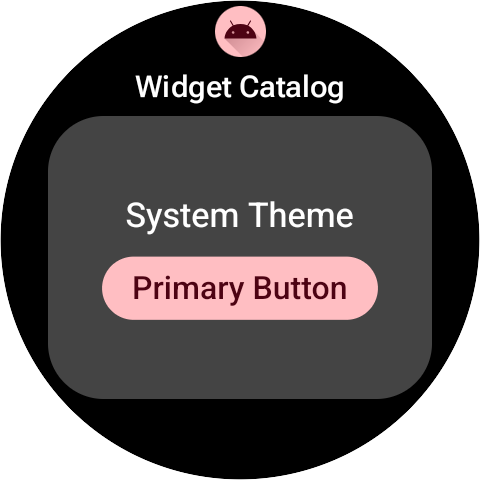
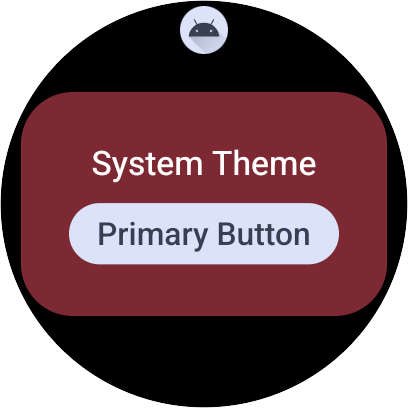
feat: show dynamic document background in sample
Verify that dynamic theme colors for document backgrounds now work
directly without manual binding. Update WidgetCatalog to demonstrate
this for SystemThemeSample. Update GETTING-STARTED.md to mark the
issue as fixed and reformat other fixed issues to use italics instead
of alerts.

Tested on device localhost:41027.

diff --git a/WearWidgetKotlin/app/src/main/java/com/google/example/wear_widget/WidgetCatalog.kt b/WearWidgetKotlin/app/src/main/java/com/google/example/wear_widget/WidgetCatalog.kt
@@ -17,7 +17,6 @@ package com.google.example.wear_widget
 
 import android.content.Context
 import android.util.Log
-import androidx.compose.remote.creation.compose.state.RemoteColor
 import androidx.compose.remote.creation.compose.state.rc
 import androidx.compose.ui.graphics.Color
 import androidx.glance.wear.GlanceWearWidget
@@ -46,14 +45,15 @@ class WidgetCatalog : GlanceWearWidget() {
 
         val localColorScheme = ColorScheme()
         val remoteColorScheme = RemoteColorScheme(localColorScheme)
-        val dynamicBg =
-            RemoteColor.createNamedRemoteColor(
-                "WearM3.primaryContainer",
-                localColorScheme.primaryContainer,
-            )
-        // Note: Not using dynamicBg because of the `RemoteModifier.background(RemoteColor)` Ignores
-        // Clipping known issue
-        return WearWidgetDocument(background = WearWidgetBrush.color(Color.DarkGray.rc)) {
+
+        val backgroundBrush =
+            if (state.layoutName == "SystemThemeSample") {
+                WearWidgetBrush.color(remoteColorScheme.primaryContainer)
+            } else {
+                WearWidgetBrush.color(Color.DarkGray.rc)
+            }
+
+        return WearWidgetDocument(background = backgroundBrush) {
             RemoteMaterialTheme(colorScheme = remoteColorScheme) {
                 when (state.layoutName) {
                     "TaskSample" -> TaskSample()

diff --git a/WearWidgetKotlin/docs/GETTING-STARTED.md b/WearWidgetKotlin/docs/GETTING-STARTED.md
@@ -831,7 +831,7 @@ significantly.
 | **State & Interactivity** | Server-side driven. Interactions (`LoadAction`) trigger a full service callback to refresh the UI.                                                                                                                        | Client-side driven. Declarative state (`rememberRemoteIntValue`) and actions (`ValueChange`) allow instant UI updates without app round-trips.                                                                |
 | **Dynamic Data**          | **Streaming Support.** Can bind directly to platform data (e.g., Heart Rate) via `DynamicBuilders` for real-time updates.                                                                                                 | **State Driven.** Updates are driven by state changes or app pushes. No direct platform sensor binding yet.                                                                                                   |
 | **Update Scheduling**     | **Timeline Support.** Can pre-schedule future layouts (e.g., calendar events) to update automatically without waking the app.                                                                                             | **Real-time.** Updates are immediate and must be initiated by app code. No native mechanism to pre-cache future layouts.                                                                                      |
-| **Curved Layouts** | **Native Support.** dedicated `Arc` containers and components (`ArcText`) for circular screens. | **Container Not Required.** Widgets use standard linear layouts (`RemoteRow`) and do not aim to hug the screen curvature. However, component-level arcs (like progress indicators) are supported. |
+| **Curved Layouts**        | **Native Support.** dedicated `Arc` containers and components (`ArcText`) for circular screens.                                                                                                                           | **Container Not Required.** Widgets use standard linear layouts (`RemoteRow`) and do not aim to hug the screen curvature. However, component-level arcs (like progress indicators) are supported.             |
 | **Transitions**           | **Granular Control.** Explicit APIs for `EnterTransition` and `ExitTransition`.                                                                                                                                           | **Animation Specs.** Uses generic `animationSpec` on modifiers. Granular transition control is less relevant in this model.                                                                                   |
 | **Advanced Animations**   | **Lottie Supported.** Natively supports Lottie via `AndroidLottieResourceByResId`.                                                                                                                                        | **Support Planned.**                                                                                                                                                                                          |
 | **Tween Animations**      | **Developer or Renderer Controlled.** Developers can provide an `AnimationSpec` but can also arrange for interpolation to be handled automatically by the renderer when dynamic values change.                            | **Developer Controlled.** Explicit `animationSpec` allows precise control over duration, delay, and easing curves (e.g. `tween`, `spring`).                                                                   |
@@ -928,11 +928,10 @@ API surface, but the workaround remains necessary for tooling APIs like
 
 ### [FIXED] `RemoteModifier.clip()` Requires Explicit Size for Relative Shapes {#remotemodifierclip-requires-explicit-size-for-relative-shapes}
 
-> [!NOTE] Fixed in `1.0.0-alpha08`. `RemoteModifier.clip` now expects
-> `RemoteShape` (e.g., `RemoteCircleShape`) and no longer accepts explicit
-> dimensions.
-
 b/477860914
+
+_Fixed in `1.0.0-alpha08`. `RemoteModifier.clip` now expects `RemoteShape`
+(e.g., `RemoteCircleShape`) and no longer accepts explicit dimensions._
 
 **Symptom:** Shapes that rely on the component's layout size, such as
 `RoundedCornerShape(percent = 50)` or `CircleShape`, may compile but fail to
@@ -953,10 +952,10 @@ RemoteModifier
 
 ### [FIXED] `RemoteModifier.padding` Lacks `RemoteDp` Support {#remotemodifierpadding-lacks-remotedp-support}
 
-> [!NOTE] Fixed in `1.0.0-alpha07`. `RemoteModifier.padding` now supports
-> `RemoteDp` (e.g., `10.rdp`).
-
 b/470964182
+
+_Fixed in `1.0.0-alpha07`. `RemoteModifier.padding` now supports `RemoteDp`
+(e.g., `10.rdp`)._
 
 The `RemoteModifier.padding` extension functions previously did not accept
 `RemoteDp` values. They only supported `RemoteFloat` or standard Compose `Dp`.
@@ -968,10 +967,10 @@ RemoteModifier.padding(10.rdp)
 
 ### [FIXED] `RemoteArrangement.Center` Can Only Be Used in Vertical Contexts {#remotearrangementcenter-can-only-be-used-in-vertical-contexts}
 
-> [!NOTE] Fixed in `1.0.0-alpha07`. `RemoteArrangement.Center` now implements
-> `HorizontalOrVertical` and can be used in both `RemoteRow` and `RemoteColumn`.
-
 b/471153933
+
+_Fixed in `1.0.0-alpha07`. `RemoteArrangement.Center` now implements
+`HorizontalOrVertical` and can be used in both `RemoteRow` and `RemoteColumn`._
 
 **Symptom:** A type mismatch error occurs when using `RemoteArrangement.Center`
 in a `RemoteRow`.
@@ -996,10 +995,10 @@ interface.
 
 ### [FIXED] `RemoteBox` Vertical Axis Requires `Arrangement` {#remotebox-differs-from-compose-box}
 
-> [!NOTE] Fixed in `1.0.0-alpha07`. `RemoteBox` now uses
-> `contentAlignment: RemoteAlignment` just like standard Compose `Box`.
-
 b/471212869
+
+_Fixed in `1.0.0-alpha07`. `RemoteBox` now uses
+`contentAlignment: RemoteAlignment` just like standard Compose `Box`._
 
 **Symptom:** You cannot use `RemoteAlignment` constants for vertical positioning
 when configuring a `RemoteBox`.
@@ -1061,6 +1060,9 @@ render and attach the tile" error.
 
 b/474292165
 
+_Fixed. The `IllegalStateException: There are multiple DataStores active` crash
+has been fixed in the library._
+
 **Symptom:** The widget is blank, and the app process crashes with
 `IllegalStateException: There are multiple DataStores active`. Various
 conditions and states can cause this, including:
@@ -1099,10 +1101,10 @@ changes, but a manual force-stop may be necessary if it remains blank.
 
 ### [FIXED] Android Studio Preview Limitations {#android-studio-preview-limitations}
 
-> [!NOTE] Fixed in Compose Remote `1.0.0-alpha08`. Multiple preview instances in
-> the same file now render correctly.
-
 b/431932822
+
+_Fixed in Compose Remote `1.0.0-alpha08`. Multiple preview instances in the same
+file now render correctly._
 
 **Symptom:** When using `@Preview` or `@WearPreviewDevices` with
 `RemotePreview`, Android Studio may not display all defined previews correctly,
@@ -1131,6 +1133,9 @@ drawConditionally(isToggled.not()) {
 ### [FIXED] `RemoteMaterialTheme.typography` Does Not Expose Semantic Styles {#typography-does-not-expose-semantic-styles}
 
 b/478828032
+
+_Fixed. Semantic text styles (e.g., `titleLarge`) are now natively available
+through `RemoteMaterialTheme.typography`._
 
 **Symptom:** `RemoteMaterialTheme.colorScheme` exposes the system's dynamic
 colors (e.g., `RemoteMaterialTheme.colorScheme.primary`), however the
@@ -1267,6 +1272,10 @@ CanvasRemoteImage(
 
 b/479893918
 
+_Fixed. The crash when using `drawScaledBitmap` with resource-backed bitmaps has
+been fixed. You can now use it without explicitly providing the `srcSize`
+argument._
+
 **Symptom:** The application crashes with
 `java.lang.IllegalStateException: Bitmap width is not available in the remote document`
 when calling `drawScaledBitmap` with a resource-backed `RemoteBitmap`.
@@ -1343,7 +1352,11 @@ solid colors via `WearWidgetDocument(backgroundColor = ...)`.
 with images or gradients at this time. To maintain visual consistency, ensure
 your content or inner backgrounds complement the document's `backgroundColor`.
 
-### Dynamic Theme Colors for Document Backgrounds Require Manual Binding {#dynamic-theme-colors-for-document-backgrounds-require-manual-binding}
+### [FIXED] Dynamic Theme Colors for Document Backgrounds Require Manual Binding {#dynamic-theme-colors-for-document-backgrounds-require-manual-binding}
+
+_Fixed in `1.0.0-alpha02`. You can now set the background of a
+`WearWidgetDocument` to a dynamic theme color using `RemoteColorScheme`
+properties directly._
 
 **Symptom:** You cannot set the `background` of a `WearWidgetDocument` to a
 dynamic theme color using `RemoteColorScheme` properties (e.g.,